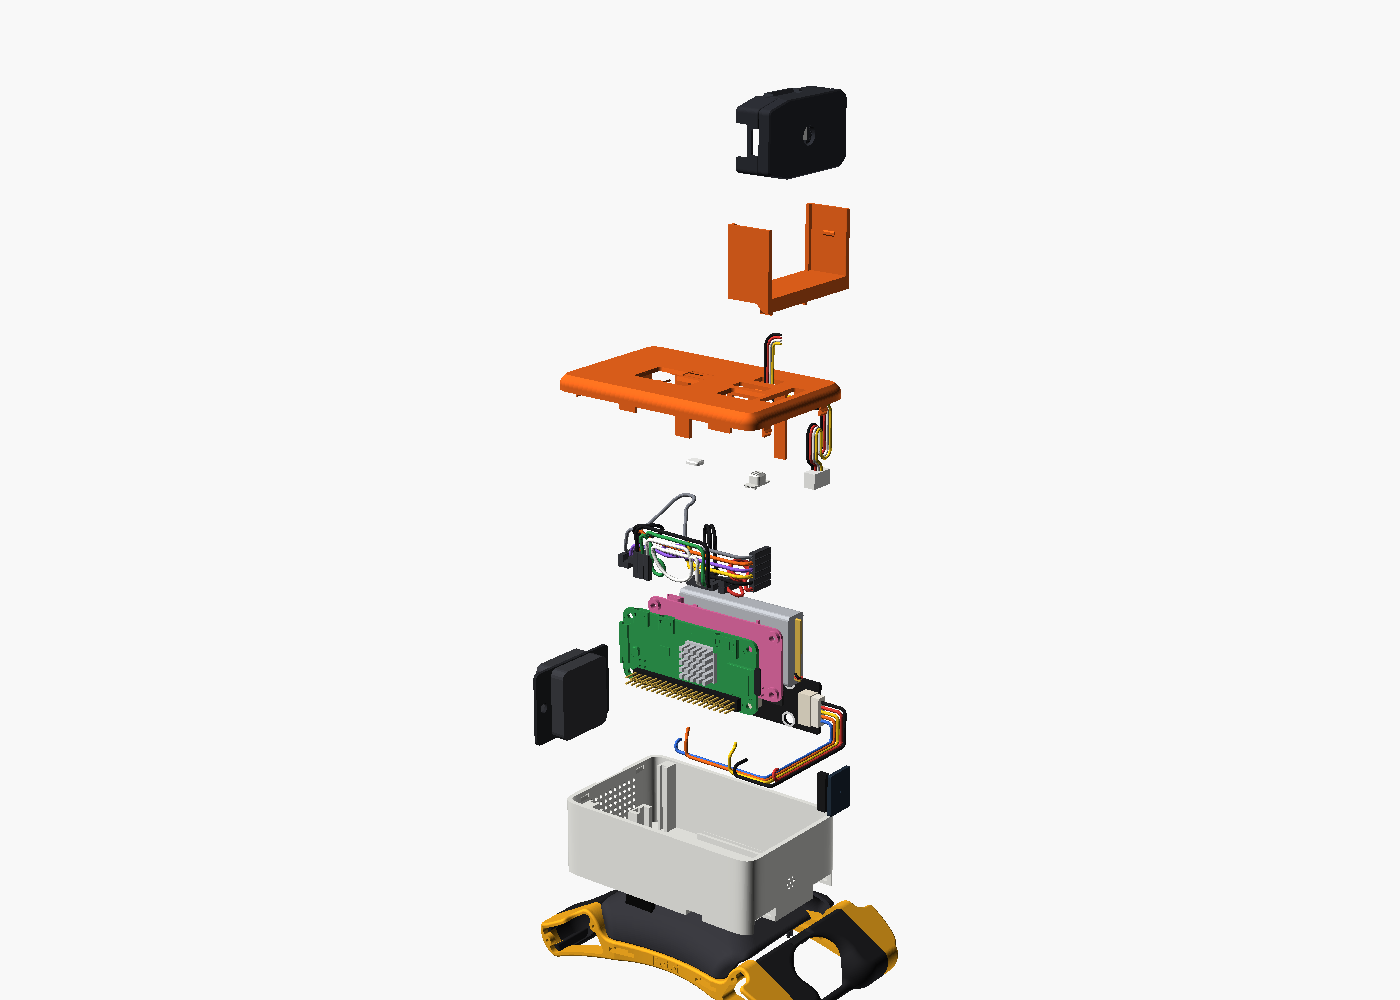
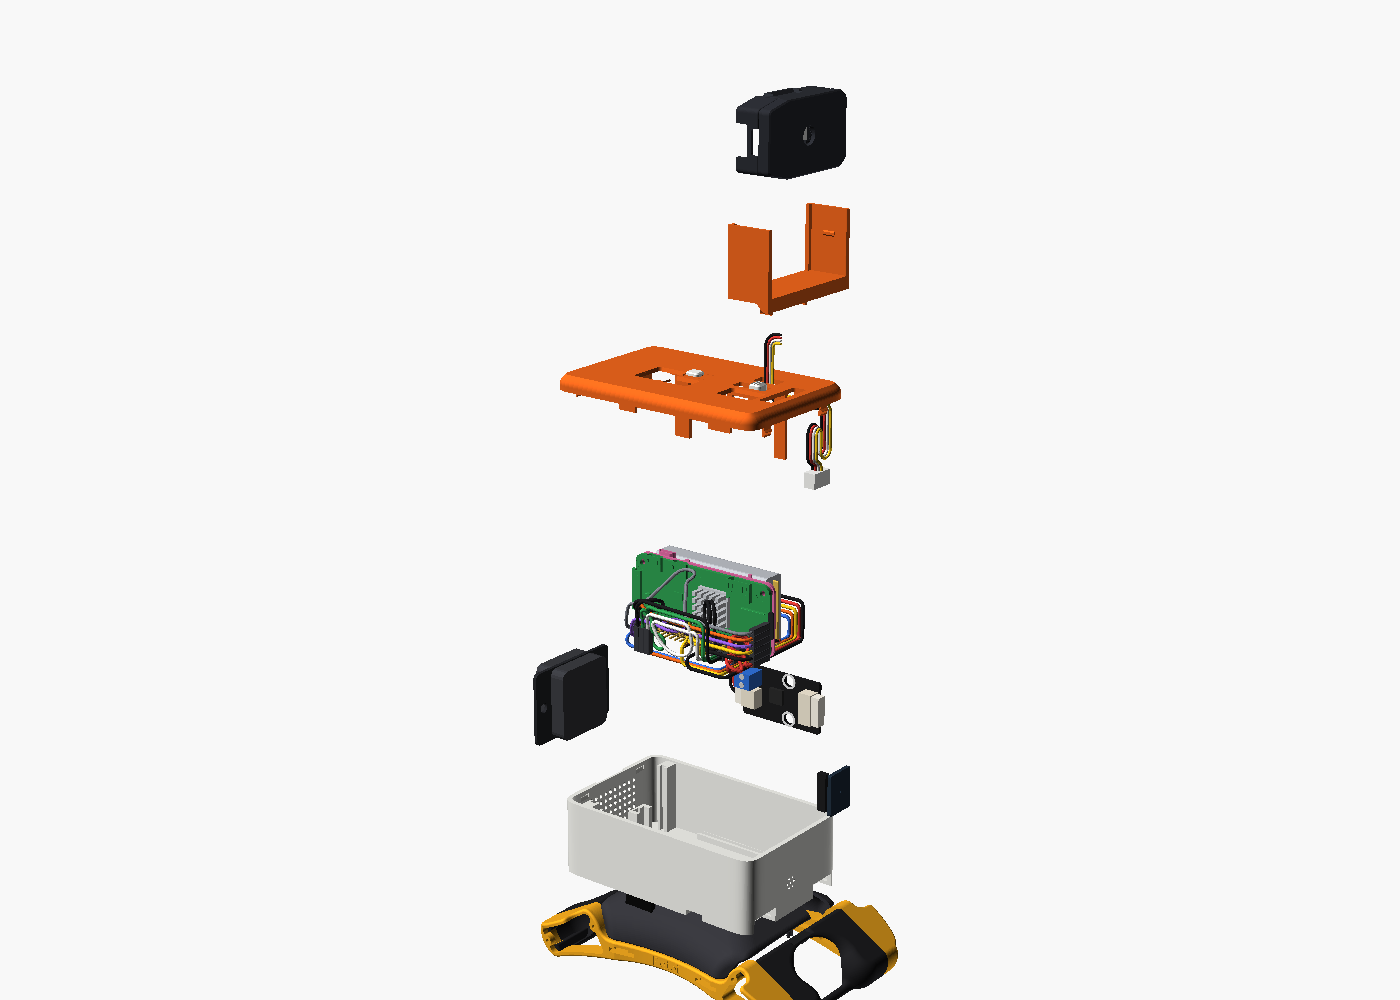
Keep each Dupont housing on its wire in the model
A jumper comes with its housings on it, so the model now shows it
that way.

- Each wire step in the viewer brings in the wire and its housings
  together. The mic step and the amp step no longer show housings
  without their wires.
- The exploded view moves each housing with its wire. The Pi stack
  and its wire harness leave as one block, because a rigid housing
  cannot slide off a Pi pin without its wire going through the wall.
  The slider and the button cap stay in the panel.
- The exploded path now has no contact between any two parts.

Changed region(s): [[0.43, 0.496, 0.6143, 0.806], [0.5221, 0.465, 0.5529, 0.496], [0.5221, 0.372, 0.5529, 0.403]]

diff --git a/build_site.py b/build_site.py
@@ -150,32 +150,27 @@ STACK = ["battery", "pisugar", "pizero", "sd_card", "pi_plugs"]
 
 
 def _wire_step(key, title=None, text=""):
-    """One wire step. The wire comes in with its Dupont housings; a wire laid before (the amp cable) or a housing
-    plugged before (the mic end) is already in place and only glows."""
+    """One wire step: the wire comes in with its Dupont housings on it (a jumper comes that way)."""
     i, w = _W[key]
-    laid = key[0] == "amp"
-    new = [h for h in w["housings"] if not h.endswith("_dev") or key[0] != "mic"]
-    if not laid:
-        new = [w["id"]] + new
-    glow = [w["id"]] + list(w["housings"])
+    new = [w["id"]] + list(w["housings"])
+    under = key[0] == "amp"                             # the amp cable runs under the stack: the stack goes see-through
     if w.get("pack"):
         text = text or f"Plug a 10 cm jumper from {w['from']} to the Pi {w['to']}. Lay its excess in {('an' if w['slack'][0] in 'aeiou' else 'a')} {w['slack']} as shown."
-    return dict(title=title or f"{w['from']} \u2192 {'Pi ' if w['to'].startswith('pin') else ''}{w['to']}", view="build" if laid else "wires",
-                show=new, highlight=glow, ghost=["body", "panel"] + (STACK[:4] if laid else []), start={k: [0, 22, 0] for k in new},
+    return dict(title=title or f"{w['from']} \u2192 {'Pi ' if w['to'].startswith('pin') else ''}{w['to']}", view="build" if under else "wires",
+                show=new, highlight=new, ghost=["body", "panel"] + (STACK[:4] if under else []), start={k: [0, 22, 0] for k in new},
                 text=(text or f"Plug {w['from']} onto the Pi {w['to']}.") + f" (Wire {i} in the route table of the guide.)")
 
 
 CAM_CABLE = [f"wires_camera__{k}" for k in ("scl", "sda", "vcc", "gnd", "plug_bb")]
-AMP_CABLE = [_W[("amp", k)][1]["id"] for k in ("G", "V", "BCLK", "LRC", "DIN")]
-MIC_ENDS = [h for w in WIRES["wires"] if w["group"] == "mic" for h in w["housings"] if h.endswith("_dev")]
+AMP_SPLICE = ["wires_amp__bclk", "wires_amp__lrc"]
 SPLICE_IDS = ["wires_splice__sleeves", "wires_splice__bclk", "wires_splice__bclk_pi", "wires_splice__lrclk", "wires_splice__lrclk_pi"]
 
 WIRE_STEPS = [_wire_step(tuple(k)) for k in WIRES["order"] if tuple(k)[0] == "uart"] + [
     _wire_step(("amp", "G"), text="Amp cable G: from the floor in front of the front pegs, in the outer lane of the right well, onto Pi pin 14."),
     _wire_step(("amp", "V"), text="Amp cable V: up from the floor onto Pi pin 2 (5V)."),
     _wire_step(("amp", "DIN"), text="Amp cable DIN: rearward in the inner lane, onto Pi pin 40."),
-    dict(title="Splices", view="wires", ghost=["body", "panel"], highlight=SPLICE_IDS + ["wires_amp__bclk", "wires_amp__lrc"],
-         show=SPLICE_IDS, start={k: [0, 22, 0] for k in SPLICE_IDS},
+    dict(title="Splices", view="build", ghost=["body", "panel"] + STACK[:4], highlight=SPLICE_IDS + AMP_SPLICE,
+         show=SPLICE_IDS + AMP_SPLICE, start={k: [0, 22, 0] for k in SPLICE_IDS + AMP_SPLICE},
          text="The BCLK and LRCLK splices: a short wire from Pi pin 12 (35) and the amp cable BCLK (LRC) go into the bottom of each sleeve. "
               "The BCLK splice stands in front of the BiBoard notch, the LRCLK splice beside the BiBoard plugs."),
 ] + [_wire_step(tuple(k)) for k in WIRES["order"] if tuple(k)[0] == "mic"]
@@ -198,13 +193,15 @@ STEPS = [
               "Lay its excess as an S fold in the front left corner and let its free end hang out of the top."),
     dict(title="Speaker", view="build", show=["speaker"], start={"speaker": [0, 40, 0]},
          text="Push the speaker down into the two side grooves at the rear, body to the rear (to the grille)."),
-    dict(title="Mic", view="buildfront", show=["mic"] + MIC_ENDS, start={k: [0, 40, 0] for k in ["mic"] + MIC_ENDS},
-         text="Plug the six 10 cm jumpers onto the mic header. Then push the mic down into its groove at the front wall, port to the front."),
-    dict(title="Amp", view="build", show=["amp", "wires_speaker__pos", "wires_speaker__neg"] + AMP_CABLE,
-         start={k: [0, 40, 0] for k in ["amp", "wires_speaker__pos", "wires_speaker__neg"] + AMP_CABLE},
+    dict(title="Mic", view="buildfront", show=["mic"], start={"mic": [0, 40, 0]},
+         text="Plug the six 10 cm jumpers onto the mic header and let them hang out of the top. Then push the mic down into its groove "
+              "at the front wall, port to the front. Each jumper shows in the step where its other end goes onto the Pi."),
+    dict(title="Amp", view="build", show=["amp", "wires_speaker__pos", "wires_speaker__neg"],
+         start={k: [0, 40, 0] for k in ["amp", "wires_speaker__pos", "wires_speaker__neg"]},
          text="Plug the speaker lead into the 2-pin connector at the rear end of the amp and the amp cable into the I2S connector at its front end. "
               "Push the bottom edge of the amp down into the slot along the left wall, parts to the inside. "
-              "Lay the amp cable across the floor in front of the front pegs and into the right well. The stack goes on top of it."),
+              "Lay the amp cable across the floor in front of the front pegs and into the right well. The stack goes on top of it. "
+              "Each wire of the cable shows in the step where it goes onto the Pi."),
     dict(title="Pi stack", view="build", show=STACK, start={k: [0, 45, 0] for k in STACK},
          text="Push the Pi + PiSugar 2 stack down into the end grooves: ports up, header down to the right, SD card to the front. "
               "Then plug the wires one at a time, as the next steps show."),

diff --git a/bittle_pi_addon/pod.py b/bittle_pi_addon/pod.py
@@ -2024,11 +2024,12 @@ def install_checks(parts, models):
 
 # Masses (g) from the user's table (reference/signal-2026-10-15-12-23-39-844.png): the electronics and the wires.
 # The printed parts are about half solid (PRINT_FILL).
-# Exploded view: the parts leave in reverse build order. In its stage a part makes two moves, one after the other.
-# Most parts first lift straight up (the way they went in, out through the open top of the body), then move aside.
-# The wires lift first. At the same time the Dupont housings on the Pi slide off their pins (+X); then they lift.
-# Lifts grow with the stage, so a part never passes through a part that is still in place. Stage 0 leaves first.
-EXPLODE_STAGES = 8
+# Exploded view: the parts leave in about the reverse build order. In its stage a part makes two moves, one after
+# the other: it lifts straight up (the way it went in, out through the open top of the body), then moves aside.
+# A Dupont housing always stays on its wire. The Pi stack and its wire harness (the jumpers, the amp cable, the
+# splices) leave together: a housing cannot slide off a Pi pin as one rigid piece with its wire (the wire would go
+# through the right wall). Lifts grow with the stage, so a part never passes through a part still in place.
+EXPLODE_STAGES = 7
 
 
 def explode_plan(name, sub=""):
@@ -2040,26 +2041,23 @@ def explode_plan(name, sub=""):
     if name in ("panel", "pod_panel"):
         return 2, (0, 170, 0), (0, 0, 0)
     if name in ("switch", "pod_switch", "button", "pod_button"):
-        return 2, (0, 170, 0), (0, -35, 0)                       # out of the bottom of the panel
+        return 2, (0, 170, 0), (0, 0, 0)                         # they stay clicked into the panel
     if name.startswith("wires_"):
         if name == "wires_camera":
             if sub == "plug_cam":
                 return 0, (0, 250, 0), (0, 0, 0)                  # the plug in the camera socket goes with the camera
             return 2, (0, 170, 0), (0, 0, 0)                      # the Grove cable goes up with the panel (it is in its slot)
-        if name == "wires_speaker" or (name == "wires_amp" and not sub.endswith("_pi")):
-            return 5, (0, 45, 0), (-30, 0, 0)                     # the speaker lead and the amp cable go with the amp
-        if sub.endswith("_pi"):
-            return 3, (6.5, 0, 0), (0, 130, 0)                    # off the pins after the wires are out of the way
-        return 3, (0, 130, 0), (0, 0, 0)
-    side_x = dict(battery=-15, pisugar2=-5, pizero=8, sd_card=8, pi_plugs=8)
-    if name in side_x:
-        return 4, (0, 80, 0), (side_x[name], 0, 0)
+        if name == "wires_speaker":
+            return 4, (0, 45, 0), (-30, 0, 0)                     # the speaker lead goes with the amp
+        return 3, (0, 100, 0), (0, 0, 0)                         # the harness, its housings on it, with the Pi
+    if name in ("pizero", "pisugar2", "battery", "sd_card", "pi_plugs"):
+        return 3, (0, 100, 0), (0, 0, 0)                         # one block: the amp cable runs under the battery
     if name == "amp_ns4168":
-        return 5, (0, 45, 0), (-30, 0, 0)
+        return 4, (0, 45, 0), (-30, 0, 0)
     if name == "mic_sph0645":
-        return 6, (0, 45, 0), (0, 0, -25)
+        return 5, (0, 45, 0), (0, 0, -25)
     if name == "speaker":
-        return 7, (0, 45, 0), (0, 0, 30)
+        return 6, (0, 45, 0), (0, 0, 30)
     return None
 
 
